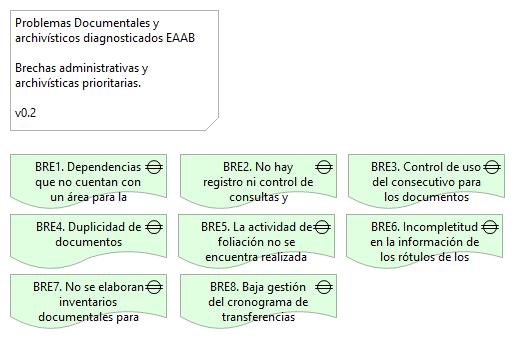
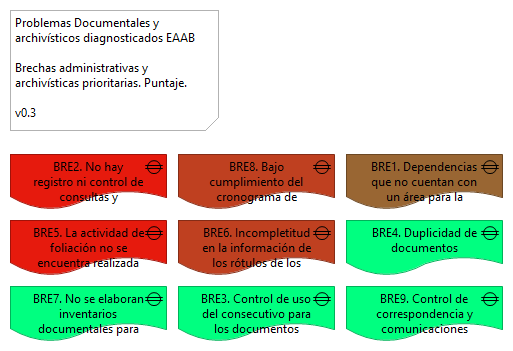
Brechas Archivísticas. Puntaje. Reporte

diff --git a/id-c126e9492ded4e86a2e8033d4e5892b0/elements/model.html b/id-c126e9492ded4e86a2e8033d4e5892b0/elements/model.html
@@ -1632,20 +1632,40 @@ ea3d92c Difusi&#243;n. FUNC501. Visualizaci&#243;n de los documentos buscados
 										dataElements.push({id:"id-052bf0cf3e404091949b05cc9db519fa", type:"WorkPackage", name:decodeURL("Proyecto+Arq.+%231"), documentation:decodeURL("metadatos%2C+archivo+nacional%2C+normatividad%2C+indicadores+de+adopci%C3%B3n%0D%0A")});
 									dataFoldersContent.push({folderid:"id-9fc52a75544243ea9550ecc15685d10c", contentid:"id-546681b0f1fe42da809704cb1fa47623", contenttype:"Gap"});
 										dataElements.push({id:"id-546681b0f1fe42da809704cb1fa47623", type:"Gap", name:decodeURL("BRE1.+Dependencias+que+no+cuentan+con+un+%C3%A1rea+para+la+consulta+de+documentos+f%C3%ADsicos"), documentation:decodeURL("1421001+-+DIRECCI%C3%93N+MEJORAMIENTO+CALIDAD+DE+VIDA%0D%0A1510001+-+GERENCIA+JUR%C3%8DDICA%0D%0A1530001+-+OFICINA+ASESORA+DE+REPRESENTACI%C3%93N+JUDICIAL+Y+ACTUACI%C3%93N+ADMINISTRATIVA%0D%0A2510001+-+GERENCIA+CORPORATIVA+SISTEMA+MAESTRO%0D%0A2532501+-+DIVISI%C3%93N+SISTEMA+DE+ABASTECIMIENTO+TIBITOC%0D%0A2620001+-+DIRECCI%C3%93N+INGENIER%C3%8DA+ESPECIALIZADA%0D%0A2641001+-+DIRECCI%C3%93N+SERVICIOS+T%C3%89CNICOS%0D%0A3010001+-+GERENCIA+CORPORATIVA+SERVICIO+AL+CLIENTE%0D%0A")});
+													dataProperties.push({conceptid:"id-546681b0f1fe42da809704cb1fa47623", propkey:decodeURL("Impacto"), propvalue:decodeURL("40")});
+
 									dataFoldersContent.push({folderid:"id-9fc52a75544243ea9550ecc15685d10c", contentid:"id-1099c94738bb4307be9d7ed2af5514b1", contenttype:"Gap"});
-										dataElements.push({id:"id-1099c94738bb4307be9d7ed2af5514b1", type:"Gap", name:decodeURL("BRE2.+No+hay+registro+ni+control+de+consultas+y+prestamos"), documentation:decodeURL("%28de+exploraci%C3%B3n+realizada%29+El+40%25+de+las+dependencias+encuestadas+no+ha+implementado+ning%C3%BAn+control+sobre+el+pr%C3%A9stamo+de+expedientes.+Solamente+una+de+las+23+dependencias+analizadas+indic%C3%B3+que+conoc%C3%ADa+la+tabla+de+control+de+acceso.%0D%0A%0D%0AS%C3%B3lo+5+de+las+23+dependencias+tienen+servicio+de+pr%C3%A9stamo+a+usuarios+externos%2C+lo+cual%2C+exige+mayor+%C3%A9nfasis+en+la+implementaci%C3%B3n+de+los+controles+de+pr%C3%A9stamo%2C+como+el+conocimiento+de+la+tabla+de+control+de+acceso+y+las+medidas+de+seguridad+sobre+la+informaci%C3%B3n+que+va+a+ser+objeto+de+consulta.%0D%0A%0D%0APrima+la+actividad+de+pr%C3%A9stamo+de+expedientes+y+el+env%C3%ADo+de+la+informaci%C3%B3n+objeto+de+consulta+por+correo+en+muchos+casos+por+el+aplicativo+CORI.%0D%0A%0D%0A2532501+-+DIVISI%C3%93N+SISTEMA+DE+ABASTECIMIENTO+TIBITOC%0D%0A2610001+-+GERENCIA+TECNOLOG%C3%8DA%0D%0A2636001+-+DIVISI%C3%93N+T%C3%81CTICA+DE+MANTENIMIENTO%0D%0A")});
+										dataElements.push({id:"id-1099c94738bb4307be9d7ed2af5514b1", type:"Gap", name:decodeURL("BRE2.+No+hay+registro+ni+control+de+consultas+y+prestamos"), documentation:decodeURL("El+proceso+de+consulta+y+la+forma+como+se+lleva+este+en+las+dependencias+punto+es+d%C3%A9bil.+Si+bien+existen+diferentes+maneras+de+gestionar+las+consultas+y+que+pese+a+existir+el+lineamiento+escrito+de+consulta+y+pr%C3%A9stamos+de+documentos%2C+le+entidad+adolece+de+la+apropiaci%C3%B3n+del+mismo+y+el+cumplimiento+de+las+pautas+establecidas+para+administrar+los+pr%C3%A9stamos+de+documentos+al+interior+de+la+EAAB.%0D%0A%0D%0A%28de+exploraci%C3%B3n+realizada%29+El+40%25+de+las+dependencias+encuestadas+no+ha+implementado+ning%C3%BAn+control+sobre+el+pr%C3%A9stamo+de+expedientes.+Solamente+una+de+las+23+dependencias+analizadas+indic%C3%B3+que+conoc%C3%ADa+la+tabla+de+control+de+acceso.%0D%0A%0D%0AS%C3%B3lo+5+de+las+23+dependencias+tienen+servicio+de+pr%C3%A9stamo+a+usuarios+externos%2C+lo+cual%2C+exige+mayor+%C3%A9nfasis+en+la+implementaci%C3%B3n+de+los+controles+de+pr%C3%A9stamo%2C+como+el+conocimiento+de+la+tabla+de+control+de+acceso+y+las+medidas+de+seguridad+sobre+la+informaci%C3%B3n+que+va+a+ser+objeto+de+consulta.%0D%0A%0D%0APrima+la+actividad+de+pr%C3%A9stamo+de+expedientes+y+el+env%C3%ADo+de+la+informaci%C3%B3n+objeto+de+consulta+por+correo+en+muchos+casos+por+el+aplicativo+CORI.%0D%0A%0D%0A2532501+-+DIVISI%C3%93N+SISTEMA+DE+ABASTECIMIENTO+TIBITOC%0D%0A2610001+-+GERENCIA+TECNOLOG%C3%8DA%0D%0A2636001+-+DIVISI%C3%93N+T%C3%81CTICA+DE+MANTENIMIENTO%0D%0A")});
+													dataProperties.push({conceptid:"id-1099c94738bb4307be9d7ed2af5514b1", propkey:decodeURL("Impacto"), propvalue:decodeURL("10")});
+
 									dataFoldersContent.push({folderid:"id-9fc52a75544243ea9550ecc15685d10c", contentid:"id-56571d7c3ed441d9b22a4870c4a1f9ef", contenttype:"Gap"});
 										dataElements.push({id:"id-56571d7c3ed441d9b22a4870c4a1f9ef", type:"Gap", name:decodeURL("BRE3.+Control+de+uso+del+consecutivo+para+los+documentos+internos+y+externos"), documentation:decodeURL("En+la+gesti%C3%B3n+documental+de+EAAB+intervienen+diferentes+aplicativos%2C+no+es+claro+que+las+comunicaciones+administrativas+tenga+un+consecutivo+%C3%BAnico+e+irrepetible+que+permita+hacer+seguimiento+a+su+trazabilidad+durante+el+proceso+de+distribuci%C3%B3n+desde+el+remitente+hasta+el+destino+final.+%0D%0A%0D%0A1150001+-+DIRECCI%C3%93N+SEGURIDAD+%0D%0A1421001+-+DIRECCI%C3%93N+MEJORAMIENTO+CALIDAD+DE+VIDA%0D%0A1510001+-+GERENCIA+JUR%C3%8DDICA%0D%0A1530001+-+OFICINA+ASESORA+DE+REPRESENTACI%C3%93N+JUDICIAL+Y+ACTUACI%C3%93N+ADMINISTRATIVA%0D%0A2532501+-+DIVISI%C3%93N+SISTEMA+DE+ABASTECIMIENTO+TIBITOC%0D%0A2610001+-+GERENCIA+TECNOLOG%C3%8DA%0D%0A")});
+													dataProperties.push({conceptid:"id-56571d7c3ed441d9b22a4870c4a1f9ef", propkey:decodeURL("Impacto"), propvalue:decodeURL("100")});
+
 									dataFoldersContent.push({folderid:"id-9fc52a75544243ea9550ecc15685d10c", contentid:"id-ceff681b2d1048d38735c63b17ac1b32", contenttype:"Gap"});
 										dataElements.push({id:"id-ceff681b2d1048d38735c63b17ac1b32", type:"Gap", name:decodeURL("BRE4.+Duplicidad+de+documentos"), documentation:decodeURL("1150001+-+DIRECCI%C3%93N+SEGURIDAD%0D%0A1190001+-+DIRECCI%C3%93N+DE+CONTRATACI%C3%93N+Y+COMPRAS%0D%0A")});
+													dataProperties.push({conceptid:"id-ceff681b2d1048d38735c63b17ac1b32", propkey:decodeURL("Impacto"), propvalue:decodeURL("100")});
+
 									dataFoldersContent.push({folderid:"id-9fc52a75544243ea9550ecc15685d10c", contentid:"id-34843064df6947c9b0289cee85725a53", contenttype:"Gap"});
-										dataElements.push({id:"id-34843064df6947c9b0289cee85725a53", type:"Gap", name:decodeURL("BRE5.+La+actividad+de+foliaci%C3%B3n+no+se+encuentra+realizada+en+su+totalidad"), documentation:decodeURL("1190001-+DIRECCI%C3%93N+DE+CONTRATACI%C3%93N+Y+COMPRAS%0D%0A1210001+-+GERENCIA+CORPORATIVA+PLANEAMIENTO+Y+CONTROL%0D%0A1240001-+DIRECCI%C3%93N+PLANEACI%C3%93N++Y+CONTROL+RENTABILIDAD%2C+GASTOS+Y+COSTOS%0D%0A1350001-+DIRECCI%C3%93N+TESORER%C3%8DA%0D%0A1421001+-+DIRECCI%C3%93N+MEJORAMIENTO+CALIDAD+DE+VIDA%0D%0A1510001+-+GERENCIA+JUR%C3%8DDICA%0D%0A1520001+-+OFICINA+ASESORA+LEGAL%0D%0A1530001+-+OFICINA+ASESORA+DE+REPRESENTACI%C3%93N+JUDICIAL+Y+ACTUACI%C3%93N+ADMINISTRATIVA%0D%0A2510001+-+GERENCIA+CORPORATIVA+SISTEMA+MAESTRO%0D%0A2532501+-+DIVISI%C3%93N+SISTEMA+DE+ABASTECIMIENTO+TIBITOC%0D%0A2533001+-+DIVISI%C3%93N+SISTEMA+SUR+DE+ABASTECIMIENTO%0D%0A2547001+-+DIVISI%C3%93N+OPERACI%C3%93N+Y+MANTENIMIENTO+DRM%0D%0A2610001+-+GERENCIA+TECNOLOG%C3%8DA%0D%0A2620001+-+DIRECCI%C3%93N+INGENIER%C3%8DA+ESPECIALIZADA%0D%0A2636001+-+DIVISI%C3%93N+T%C3%81CTICA+DE+MANTENIMIENTO%0D%0A2681001+-+DIRECCI%C3%93N+SISTEMAS+DE+INFORMACI%C3%93N+EMPRESARIAL%0D%0A2641001+-+DIRECCI%C3%93N+SERVICIOS+T%C3%89CNICOS%0D%0A3010001+-+GERENCIA+CORPORATIVA+SERVICIO+AL+CLIENTE%0D%0A")});
+										dataElements.push({id:"id-34843064df6947c9b0289cee85725a53", type:"Gap", name:decodeURL("BRE5.+La+actividad+de+foliaci%C3%B3n+no+se+encuentra+realizada+en+su+totalidad"), documentation:decodeURL("Persisten+fallas+en+el+inventario+que+refleja+un+63%25+del+proceso+indicado+en+las+unidades+que+fueron+objeto+de+exploraci%C3%B3n+muestral.+Es+objeto+de+alarma+que+la+foliaci%C3%B3n+refleje+de+manera+general+una+gesti%C3%B3n+efectiva+del+43%25%2C+por+lo+que+se+concluye+que+la+organizaci%C3%B3n+de+unidades+documentales+de+la+EAAB+en+estas+dependencias+analizadas+no+es+completa+y+precisamente+otro+indicador+desarrollado+y+obtenido+por+la+consultor%C3%ADa+nos+puede+mostrar+c%C3%B3mo+fue+ese+comportamiento+en+cada+una+de+las+dependencias.%0D%0A%0D%0A1190001-+DIRECCI%C3%93N+DE+CONTRATACI%C3%93N+Y+COMPRAS%0D%0A1210001+-+GERENCIA+CORPORATIVA+PLANEAMIENTO+Y+CONTROL%0D%0A1240001-+DIRECCI%C3%93N+PLANEACI%C3%93N++Y+CONTROL+RENTABILIDAD%2C+GASTOS+Y+COSTOS%0D%0A1350001-+DIRECCI%C3%93N+TESORER%C3%8DA%0D%0A1421001+-+DIRECCI%C3%93N+MEJORAMIENTO+CALIDAD+DE+VIDA%0D%0A1510001+-+GERENCIA+JUR%C3%8DDICA%0D%0A1520001+-+OFICINA+ASESORA+LEGAL%0D%0A1530001+-+OFICINA+ASESORA+DE+REPRESENTACI%C3%93N+JUDICIAL+Y+ACTUACI%C3%93N+ADMINISTRATIVA%0D%0A2510001+-+GERENCIA+CORPORATIVA+SISTEMA+MAESTRO%0D%0A2532501+-+DIVISI%C3%93N+SISTEMA+DE+ABASTECIMIENTO+TIBITOC%0D%0A2533001+-+DIVISI%C3%93N+SISTEMA+SUR+DE+ABASTECIMIENTO%0D%0A2547001+-+DIVISI%C3%93N+OPERACI%C3%93N+Y+MANTENIMIENTO+DRM%0D%0A2610001+-+GERENCIA+TECNOLOG%C3%8DA%0D%0A2620001+-+DIRECCI%C3%93N+INGENIER%C3%8DA+ESPECIALIZADA%0D%0A2636001+-+DIVISI%C3%93N+T%C3%81CTICA+DE+MANTENIMIENTO%0D%0A2681001+-+DIRECCI%C3%93N+SISTEMAS+DE+INFORMACI%C3%93N+EMPRESARIAL%0D%0A2641001+-+DIRECCI%C3%93N+SERVICIOS+T%C3%89CNICOS%0D%0A3010001+-+GERENCIA+CORPORATIVA+SERVICIO+AL+CLIENTE%0D%0A")});
+													dataProperties.push({conceptid:"id-34843064df6947c9b0289cee85725a53", propkey:decodeURL("Impacto"), propvalue:decodeURL("10")});
+
 									dataFoldersContent.push({folderid:"id-9fc52a75544243ea9550ecc15685d10c", contentid:"id-5a67580cb32a47f394414ce8e73e59e2", contenttype:"Gap"});
-										dataElements.push({id:"id-5a67580cb32a47f394414ce8e73e59e2", type:"Gap", name:decodeURL("BRE6.+Incompletitud+en+la+informaci%C3%B3n+de+los+r%C3%B3tulos+de+los+expedientes"), documentation:decodeURL("1190001+-+DIRECCI%C3%93N+DE+CONTRATACI%C3%93N+Y+COMPRAS%0D%0A1240001+-+DIRECCI%C3%93N+PLANEACI%C3%93N++Y+CONTROL+RENTABILIDAD%2C+GASTOS+Y+COSTOS%0D%0A1421001+-+DIRECCI%C3%93N+MEJORAMIENTO+CALIDAD+DE+VIDA%0D%0A1510001+-+GERENCIA+JUR%C3%8DDICA%0D%0A1520001+-+OFICINA+ASESORA+LEGAL%0D%0A1530001+-+OFICINA+ASESORA+DE+REPRESENTACI%C3%93N+JUDICIAL+Y+ACTUACI%C3%93N+ADMINISTRATIVA%0D%0A2510001+-+GERENCIA+CORPORATIVA+SISTEMA+MAESTRO%0D%0A2532501+-+DIVISI%C3%93N+SISTEMA+DE+ABASTECIMIENTO+TIBITOC%0D%0A2533001+-+DIVISI%C3%93N+SISTEMA+SUR+DE+ABASTECIMIENTO%0D%0A2547001+-+DIVISI%C3%93N+OPERACI%C3%93N+Y+MANTENIMIENTO+DRM%0D%0A2610001+-+GERENCIA+TECNOLOG%C3%8DA%0D%0A2620001+-+DIRECCI%C3%93N+INGENIER%C3%8DA+ESPECIALIZADA%0D%0A2636001+-+DIVISI%C3%93N+T%C3%81CTICA+DE+MANTENIMIENTO%0D%0A2681001+-+DIRECCI%C3%93N+SISTEMAS+DE+INFORMACI%C3%93N+EMPRESARIAL%0D%0A2641001+-+DIRECCI%C3%93N+SERVICIOS+T%C3%89CNICOS%0D%0A3010001+-+GERENCIA+CORPORATIVA+SERVICIO+AL+CLIENTE%0D%0A")});
+										dataElements.push({id:"id-5a67580cb32a47f394414ce8e73e59e2", type:"Gap", name:decodeURL("BRE6.+Incompletitud+en+la+informaci%C3%B3n+de+los+r%C3%B3tulos+de+los+expedientes"), documentation:decodeURL("El+proceso+de+organizaci%C3%B3n+de+documentos+en+unidades+simples+y+complejas+no+se+desarrolla+de+manera+integral%3A+los+procesos+que+componen+esta+actividad+no+se+llevan+a+cabalidad+y+siempre+hace+falta+completitud+de+los+mismos.%0D%0A%0D%0AEl+proceso+m%C3%A1s+frecuente+es+el+de+ordenaci%C3%B3n+seguido+por+la+rotulaci%C3%B3n%2C+infortunadamente+con+deficiencias+del+menos+del+50%25+en+la+descripci%C3%B3n+de+dicho+r%C3%B3tulo.+%0D%0A%0D%0A1190001+-+DIRECCI%C3%93N+DE+CONTRATACI%C3%93N+Y+COMPRAS%0D%0A1240001+-+DIRECCI%C3%93N+PLANEACI%C3%93N++Y+CONTROL+RENTABILIDAD%2C+GASTOS+Y+COSTOS%0D%0A1421001+-+DIRECCI%C3%93N+MEJORAMIENTO+CALIDAD+DE+VIDA%0D%0A1510001+-+GERENCIA+JUR%C3%8DDICA%0D%0A1520001+-+OFICINA+ASESORA+LEGAL%0D%0A1530001+-+OFICINA+ASESORA+DE+REPRESENTACI%C3%93N+JUDICIAL+Y+ACTUACI%C3%93N+ADMINISTRATIVA%0D%0A2510001+-+GERENCIA+CORPORATIVA+SISTEMA+MAESTRO%0D%0A2532501+-+DIVISI%C3%93N+SISTEMA+DE+ABASTECIMIENTO+TIBITOC%0D%0A2533001+-+DIVISI%C3%93N+SISTEMA+SUR+DE+ABASTECIMIENTO%0D%0A2547001+-+DIVISI%C3%93N+OPERACI%C3%93N+Y+MANTENIMIENTO+DRM%0D%0A2610001+-+GERENCIA+TECNOLOG%C3%8DA%0D%0A2620001+-+DIRECCI%C3%93N+INGENIER%C3%8DA+ESPECIALIZADA%0D%0A2636001+-+DIVISI%C3%93N+T%C3%81CTICA+DE+MANTENIMIENTO%0D%0A2681001+-+DIRECCI%C3%93N+SISTEMAS+DE+INFORMACI%C3%93N+EMPRESARIAL%0D%0A2641001+-+DIRECCI%C3%93N+SERVICIOS+T%C3%89CNICOS%0D%0A3010001+-+GERENCIA+CORPORATIVA+SERVICIO+AL+CLIENTE%0D%0A")});
+													dataProperties.push({conceptid:"id-5a67580cb32a47f394414ce8e73e59e2", propkey:decodeURL("Impacto"), propvalue:decodeURL("25")});
+
 									dataFoldersContent.push({folderid:"id-9fc52a75544243ea9550ecc15685d10c", contentid:"id-7f0e78c58477426986caf6c2c646c545", contenttype:"Gap"});
 										dataElements.push({id:"id-7f0e78c58477426986caf6c2c646c545", type:"Gap", name:decodeURL("BRE7.+No+se+elaboran+inventarios+documentales+para+la+totalidad+de+los+expedientes"), documentation:decodeURL("1530001+-+OFICINA+ASESORA+DE+REPRESENTACI%C3%93N+JUDICIAL+Y+ACTUACI%C3%93N+ADMINISTRATIVA%0D%0A2510001+-+GERENCIA+CORPORATIVA+SISTEMA+MAESTRO%0D%0A")});
+													dataProperties.push({conceptid:"id-7f0e78c58477426986caf6c2c646c545", propkey:decodeURL("Impacto"), propvalue:decodeURL("100")});
+
 									dataFoldersContent.push({folderid:"id-9fc52a75544243ea9550ecc15685d10c", contentid:"id-a8013bc1e9d34019bae3b43ab7aac2fd", contenttype:"Gap"});
-										dataElements.push({id:"id-a8013bc1e9d34019bae3b43ab7aac2fd", type:"Gap", name:decodeURL("BRE8.+Baja+gesti%C3%B3n+del+cronograma+de+transferencias+documental"), documentation:decodeURL("%28Prodygitec%29+Menos+del+50%25+de+los+encuestados+en+EAAB+realiza+las+transferencias+seg%C3%BAn+lo+se%C3%B1alaban+las+tablas+de+retenci%C3%B3n+documental.+Es+importante+es+el+cronograma+de+transferencias+implementado*+para+hacer+posible+el+cumplimiento+del+ciclo+de+vida+de+los+documentos+y+racionalizar+no+solamente+el+espacio+sino+tambi%C3%A9n+los+recursos+f%C3%ADsicos+destinados+a+almacenar+archivos+en+la+fase+de+gesti%C3%B3n%2C+con+lo+cual+se+garantizan+la+seguridad+de+aquellos+documentos+cuando+son+transferidos+hacia+el+archivo+central.%0D%0A%0D%0ASolamente+9+de+las+23+dependencias+al+ser+encuestadas+manifestaron+que+se+cumplen+adecuadamente+los+cronogramas+o+planes+de+3+documentales+que+se+han+establecido+al+interior+de+la+empresa.%0D%0A%0D%0A%0D%0A%28*%29+En+el+numeral+6+del+art%C3%ADculo+cuarto+el+acuerdo+042+de+2002+emitido+por+el+Archivo+General+de+la+Naci%C3%B3n%3A+garantizar+que+se+pueda+efectuar+adecuadamente+unas+transferencias+documentales+ya+sea+primarias+o+secundarias+en+cumplimiento+y+aplicaci%C3%B3n+de+lo+se%C3%B1alado+en+la+tabla+de+retenci%C3%B3n+documental.%0D%0A")});
+										dataElements.push({id:"id-a8013bc1e9d34019bae3b43ab7aac2fd", type:"Gap", name:decodeURL("BRE8.+Bajo+cumplimiento+del+cronograma+de+transferencias+documental"), documentation:decodeURL("Es+innegable+la+importancia+de+que+las+transferencias+se+desarrollen+conforme+a+lo+se%C3%B1alado+en+las+tablas+de+retenci%C3%B3n+documental+y+fluya+la+log%C3%ADstica+necesaria+para+que+los+archivos+cambian+de+fase+descongestionen+las+dependencias+y+archivos+de+gesti%C3%B3n+y+se+pueden+aplicar+procesos+de+disposici%C3%B3n+final+en+el+archivo+central+que+permitan+racionalizar+los+recursos+para+la+administraci%C3%B3n+de+documentos.%0D%0A%0D%0A%28Prodygitec%29+El+cumplimiento+del+plan+de+transferencias+documentales+de+la+EAAB+tiene+debilidades+asociadas+a+la+falta+de+un+plan+completo+e+%C3%ADntegro+de+seguimiento+y+control+de+esta+actividad+en+las+dependencias.%0D%0A%0D%0A%28Prodygitec%29+Menos+del+50%25+de+los+encuestados+en+EAAB+realiza+las+transferencias+seg%C3%BAn+lo+se%C3%B1alaban+las+tablas+de+retenci%C3%B3n+documental.+Es+importante+es+el+cronograma+de+transferencias+implementado*+para+hacer+posible+el+cumplimiento+del+ciclo+de+vida+de+los+documentos+y+racionalizar+no+solamente+el+espacio+sino+tambi%C3%A9n+los+recursos+f%C3%ADsicos+destinados+a+almacenar+archivos+en+la+fase+de+gesti%C3%B3n%2C+con+lo+cual+se+garantizan+la+seguridad+de+aquellos+documentos+cuando+son+transferidos+hacia+el+archivo+central.%0D%0A%0D%0ASolamente+9+de+las+23+dependencias+al+ser+encuestadas+manifestaron+que+se+cumplen+adecuadamente+los+cronogramas+o+planes+de+3+documentales+que+se+han+establecido+al+interior+de+la+empresa.%0D%0A%0D%0A%0D%0A%28*%29+En+el+numeral+6+del+art%C3%ADculo+cuarto+el+acuerdo+042+de+2002+emitido+por+el+Archivo+General+de+la+Naci%C3%B3n%3A+garantizar+que+se+pueda+efectuar+adecuadamente+unas+transferencias+documentales+ya+sea+primarias+o+secundarias+en+cumplimiento+y+aplicaci%C3%B3n+de+lo+se%C3%B1alado+en+la+tabla+de+retenci%C3%B3n+documental.%0D%0A")});
+													dataProperties.push({conceptid:"id-a8013bc1e9d34019bae3b43ab7aac2fd", propkey:decodeURL("Impacto"), propvalue:decodeURL("25")});
+
+									dataFoldersContent.push({folderid:"id-9fc52a75544243ea9550ecc15685d10c", contentid:"id-67d4b942f64446e3ad359f7e82755a99", contenttype:"Gap"});
+										dataElements.push({id:"id-67d4b942f64446e3ad359f7e82755a99", type:"Gap", name:decodeURL("BRE9.+Control+de+correspondencia+y+comunicaciones+interna+y+externa"), documentation:decodeURL("En+la+aplicaci%C3%B3n+de+los+controles+de+la+correspondencia+tenemos+que+el+5%25+emplea+planillas%2C+el+32%25+una+herramienta+tecnol%C3%B3gica+de+las+mencionadas+anteriormente%2C+el+45%25+hace+uso+de+bases+de+datos+en+excel+y+el+porcentaje+restante+de+dependencias+no+emplea+ning%C3%BAn+control.%0D%0A%0D%0ADe+aqu%C3%AD+se+desprende+una+gesti%C3%B3n+inconsistente+de+los+controles%2C+que+sumada+a+una+administraci%C3%B3n+insular+del+proceso+de+correspondencia%2C+genera+riesgo+de+p%C3%A9rdida+de+informaci%C3%B3n%2C+o+confusi%C3%B3n+o+que+no+lleguen+a+ser+parte+de+los+expedientes+a+los+cuales+pertenecen.%0D%0A%0D%0APese+a+existir+reglamentaci%C3%B3n+interna+sobre+el+manejo+de+la+correspondencia+como+tambi%C3%A9n+los+procedimientos+que+detalla+el+flujo+documental+de+las+comunicaciones+externas+e+internas%2C+hay+dependencias+que+no+est%C3%A1n+ligadas+al+mismo+entorno+y+no+emplean+las+mismas+aplicaciones.+Hace+falto%2C+por+tanto%2C+que+exista+una+articulaci%C3%B3n+desde+lo+tecnol%C3%B3gico+y+procedimental+para+garantizar+que+todas+las+comunicaciones+internas+y+externas+est%C3%A1n+gestionadas+de+forma+unificada+y+centralizada.%0D%0A")});
+													dataProperties.push({conceptid:"id-67d4b942f64446e3ad359f7e82755a99", propkey:decodeURL("Impacto"), propvalue:decodeURL("100")});
+
 
 								dataFoldersContent.push({folderid:"id-c126e9492ded4e86a2e8033d4e5892b0", contentid:"id-31ce532c1f8e4cedb0efe15119c5e12f", contenttype:"Folder"});
 								dataFolders.push({id:"id-31ce532c1f8e4cedb0efe15119c5e12f", type:"Folder", name:decodeURL("Other"), documentation:decodeURL("")});
@@ -4236,7 +4256,7 @@ ea3d92c Difusi&#243;n. FUNC501. Visualizaci&#243;n de los documentos buscados
 													dataViewsContent.push({viewid:"id-c72805b148b8421b92d428376446257d", contentid:"90205c56-8139-4d13-9f83-a785b1f24098", contenttype:"Outcome"});
 
 										dataFoldersContent.push({folderid:"id-47220fdb39884c01b3a8e084cc8f8eaa", contentid:"id-c5da1964a87f476aa941ac647412b212", contenttype:"ArchimateDiagramModel"});
-											dataViews.push({id:"id-c5da1964a87f476aa941ac647412b212", type:"ArchimateDiagramModel", name:decodeURL("Brechas+Archiv%C3%ADsticas"), documentation:decodeURL("El+Diagn%C3%B3stivo+archiv%C3%ADsticos*+realizado+a+la+EAAB+identific%C3%B3+las+debilidades+en+las+capacidades+documentales.+Estas+debilidades%2C+que+se+expresan+en+brechas+archiv%C3%ADsticas%2C+son+problemas+administrativos%2C+documentales+y+archiv%C3%ADsticos+que+deben+ser+relacionados+con+el+dise%C3%B1o+del+SGDEA+de+EAAB.%0D%0A%0D%0ALas+brechas+archiv%C3%ADsticas+dan+a+conocer+la+situaci%C3%B3n+actual+de+los+archivos+de+la+EAAB-ESP+y+dan+informaci%C3%B3n+%C3%BAtil+para+tomar+decisiones+de+dise%C3%B1o+de+la+gesti%C3%B3n+del+archivo+del+futuro+Sistema+de+Gesti%C3%B3n+Documental+Electr%C3%B3nica+y+Archivo+SGDEA.%0D%0A%0D%0A*+INFORME+GLOBAL+COMPONENTE+ADMINISTRATIVO%2C+ARCHIV%C3%8DSTICO+Y+DE+CONSERVACI%C3%93N")});
+											dataViews.push({id:"id-c5da1964a87f476aa941ac647412b212", type:"ArchimateDiagramModel", name:decodeURL("Brechas+Archiv%C3%ADsticas"), documentation:decodeURL("El+Diagn%C3%B3stivo+archiv%C3%ADsticos*+realizado+a+la+EAAB+identific%C3%B3+las+debilidades+en+las+capacidades+documentales+de+la+entidad.+Estas+debilidades%2C+que+se+expresan+en+brechas+archiv%C3%ADsticas%2C+traen+problemas+administrativos%2C+documentales+y+archiv%C3%ADsticos+que+deben+ser+relacionados+con+el+dise%C3%B1o+del+SGDEA+de+EAAB.%0D%0A%0D%0ALas+brechas+archiv%C3%ADsticas+dan+a+conocer+la+situaci%C3%B3n+actual+de+los+archivos+de+la+EAAB-ESP+y+dan+informaci%C3%B3n+%C3%BAtil+para+tomar+decisiones+de+dise%C3%B1o+de+la+gesti%C3%B3n+del+archivo+del+futuro+Sistema+de+Gesti%C3%B3n+Documental+Electr%C3%B3nica+y+Archivo+SGDEA.%0D%0A%0D%0AEl+resultado+de+las+brechas+archiv%C3%ADsticas+de+la+EAAB+hace+necesario+el+seguimiento+de+los+procesos+de+organizaci%C3%B3n+de+expedientes+que+est%C3%A9n+desarrollado+de+acuerdo+con+los+criterios+archiv%C3%ADsticos%2C+y+que%3A%0D%0A*+posean+una+hoja+de+control+en+la+cual+se+pueda+relacionar+los+medios+an%C3%A1logos%0D%0A*+que+tengan+los+instrumentos+descriptivos+necesarios+para+asegurar+su+trazabilidad%0D%0A*+que+garantice+el+v%C3%ADnculo+archiv%C3%ADstico+con+el+expediente+al+cual+pertenece%0D%0A%0D%0A%28*%29+INFORME+GLOBAL+COMPONENTE+ADMINISTRATIVO%2C+ARCHIV%C3%8DSTICO+Y+DE+CONSERVACI%C3%93N")});
 													dataViewsContent.push({viewid:"id-c5da1964a87f476aa941ac647412b212", contentid:"id-546681b0f1fe42da809704cb1fa47623", contenttype:"Gap"});
 													dataViewsContent.push({viewid:"id-c5da1964a87f476aa941ac647412b212", contentid:"id-1099c94738bb4307be9d7ed2af5514b1", contenttype:"Gap"});
 													dataViewsContent.push({viewid:"id-c5da1964a87f476aa941ac647412b212", contentid:"id-56571d7c3ed441d9b22a4870c4a1f9ef", contenttype:"Gap"});
@@ -4245,6 +4265,7 @@ ea3d92c Difusi&#243;n. FUNC501. Visualizaci&#243;n de los documentos buscados
 													dataViewsContent.push({viewid:"id-c5da1964a87f476aa941ac647412b212", contentid:"id-5a67580cb32a47f394414ce8e73e59e2", contenttype:"Gap"});
 													dataViewsContent.push({viewid:"id-c5da1964a87f476aa941ac647412b212", contentid:"id-7f0e78c58477426986caf6c2c646c545", contenttype:"Gap"});
 													dataViewsContent.push({viewid:"id-c5da1964a87f476aa941ac647412b212", contentid:"id-a8013bc1e9d34019bae3b43ab7aac2fd", contenttype:"Gap"});
+													dataViewsContent.push({viewid:"id-c5da1964a87f476aa941ac647412b212", contentid:"id-67d4b942f64446e3ad359f7e82755a99", contenttype:"Gap"});
 
 
 									dataFoldersContent.push({folderid:"id-3b7589a83e1b4855b5f626271979d7d0", contentid:"id-4f7bc043050642e299a839d3e3637311", contenttype:"Folder"});

diff --git a/id-c126e9492ded4e86a2e8033d4e5892b0/views/id-c5da1964a87f476aa941ac647412b212.html b/id-c126e9492ded4e86a2e8033d4e5892b0/views/id-c5da1964a87f476aa941ac647412b212.html
@@ -34,15 +34,16 @@
 		    <!-- If this is a digram model (has children and no bounds) show the image -->
 			   <img class="diagram" src="../images/id-c5da1964a87f476aa941ac647412b212.png" alt="Brechas Archivísticas" usemap="#id-c5da1964a87f476aa941ac647412b212map"/>
 			   <map name="id-c5da1964a87f476aa941ac647412b212map">
-				  		<area shape="rect" coords="180,274,337,329" href="../elements/id-a8013bc1e9d34019bae3b43ab7aac2fd.html"  target="element">
+				  		<area shape="rect" coords="346,286,503,341" href="../elements/id-67d4b942f64446e3ad359f7e82755a99.html"  target="element">
+				  		<area shape="rect" coords="178,154,335,209" href="../elements/id-a8013bc1e9d34019bae3b43ab7aac2fd.html"  target="element">
 				          <area shape="rect" coords="10,10,219,131" href="../objects/id-fe115875c68e405a8da294d0794abb1c.html" target="element" >
-				  		<area shape="rect" coords="10,274,167,329" href="../elements/id-7f0e78c58477426986caf6c2c646c545.html"  target="element">
-				  		<area shape="rect" coords="346,214,503,269" href="../elements/id-5a67580cb32a47f394414ce8e73e59e2.html"  target="element">
-				  		<area shape="rect" coords="178,214,335,269" href="../elements/id-34843064df6947c9b0289cee85725a53.html"  target="element">
-				  		<area shape="rect" coords="10,214,167,269" href="../elements/id-ceff681b2d1048d38735c63b17ac1b32.html"  target="element">
-				  		<area shape="rect" coords="348,154,505,209" href="../elements/id-56571d7c3ed441d9b22a4870c4a1f9ef.html"  target="element">
-				  		<area shape="rect" coords="180,154,337,209" href="../elements/id-1099c94738bb4307be9d7ed2af5514b1.html"  target="element">
-				  		<area shape="rect" coords="10,154,167,209" href="../elements/id-546681b0f1fe42da809704cb1fa47623.html"  target="element">
+				  		<area shape="rect" coords="10,286,167,341" href="../elements/id-7f0e78c58477426986caf6c2c646c545.html"  target="element">
+				  		<area shape="rect" coords="178,220,335,275" href="../elements/id-5a67580cb32a47f394414ce8e73e59e2.html"  target="element">
+				  		<area shape="rect" coords="10,220,167,275" href="../elements/id-34843064df6947c9b0289cee85725a53.html"  target="element">
+				  		<area shape="rect" coords="346,220,503,275" href="../elements/id-ceff681b2d1048d38735c63b17ac1b32.html"  target="element">
+				  		<area shape="rect" coords="178,286,335,341" href="../elements/id-56571d7c3ed441d9b22a4870c4a1f9ef.html"  target="element">
+				  		<area shape="rect" coords="10,154,167,209" href="../elements/id-1099c94738bb4307be9d7ed2af5514b1.html"  target="element">
+				  		<area shape="rect" coords="346,154,503,209" href="../elements/id-546681b0f1fe42da809704cb1fa47623.html"  target="element">
 
 			   </map>
 
@@ -63,11 +64,16 @@
 				<!-- Tab panes -->
 				<div class="tab-content">
 					<div role="tabpanel" class="tab-pane active" id="documentation">
-						<div class="convertlinks documentation" style="white-space:pre-wrap">El Diagn&#243;stivo archiv&#237;sticos* realizado a la EAAB identific&#243; las debilidades en las capacidades documentales. Estas debilidades, que se expresan en brechas archiv&#237;sticas, son problemas administrativos, documentales y archiv&#237;sticos que deben ser relacionados con el dise&#241;o del SGDEA de EAAB.
+						<div class="convertlinks documentation" style="white-space:pre-wrap">El Diagn&#243;stivo archiv&#237;sticos* realizado a la EAAB identific&#243; las debilidades en las capacidades documentales de la entidad. Estas debilidades, que se expresan en brechas archiv&#237;sticas, traen problemas administrativos, documentales y archiv&#237;sticos que deben ser relacionados con el dise&#241;o del SGDEA de EAAB.
 
 Las brechas archiv&#237;sticas dan a conocer la situaci&#243;n actual de los archivos de la EAAB-ESP y dan informaci&#243;n &#250;til para tomar decisiones de dise&#241;o de la gesti&#243;n del archivo del futuro Sistema de Gesti&#243;n Documental Electr&#243;nica y Archivo SGDEA.
 
-* INFORME GLOBAL COMPONENTE ADMINISTRATIVO, ARCHIV&#205;STICO Y DE CONSERVACI&#211;N</div>
+El resultado de las brechas archiv&#237;sticas de la EAAB hace necesario el seguimiento de los procesos de organizaci&#243;n de expedientes que est&#233;n desarrollado de acuerdo con los criterios archiv&#237;sticos, y que:
+* posean una hoja de control en la cual se pueda relacionar los medios an&#225;logos
+* que tengan los instrumentos descriptivos necesarios para asegurar su trazabilidad
+* que garantice el v&#237;nculo archiv&#237;stico con el expediente al cual pertenece
+
+(*) INFORME GLOBAL COMPONENTE ADMINISTRATIVO, ARCHIV&#205;STICO Y DE CONSERVACI&#211;N</div>
 					</div>
 					<div role="tabpanel" class="tab-pane" id="properties">
 						<table class="table table-striped table-hover table-condensed">
@@ -131,8 +137,13 @@ Las brechas archiv&#237;sticas dan a conocer la situaci&#243;n actual de los arc
 									        </tr>
 
 											<tr>
-											    <td> <a href="../elements/id-a8013bc1e9d34019bae3b43ab7aac2fd.html" target="element"> BRE8. Baja gesti&#243;n del cronograma de transferencias documental </a> </td>
+											    <td> <a href="../elements/id-a8013bc1e9d34019bae3b43ab7aac2fd.html" target="element"> BRE8. Bajo cumplimiento del cronograma de transferencias documental </a> </td>
 											    <td> <a href="../elements/id-a8013bc1e9d34019bae3b43ab7aac2fd.html" target="element" class="i18n-elementtype-Gap"> </a> </td>
+											</tr>
+
+											<tr>
+											    <td> <a href="../elements/id-67d4b942f64446e3ad359f7e82755a99.html" target="element"> BRE9. Control de correspondencia y comunicaciones interna y externa </a> </td>
+											    <td> <a href="../elements/id-67d4b942f64446e3ad359f7e82755a99.html" target="element" class="i18n-elementtype-Gap"> </a> </td>
 											</tr>
 
 

diff --git a/id-c126e9492ded4e86a2e8033d4e5892b0/elements/id-67d4b942f64446e3ad359f7e82755a99.html b/id-c126e9492ded4e86a2e8033d4e5892b0/elements/id-67d4b942f64446e3ad359f7e82755a99.html
@@ -2,7 +2,7 @@
 <html class="frame" lang="en">
 <head>
 	<meta http-equiv="Content-Type" content="text/html;charset=utf-8">
-	<title>BRE2. No hay registro ni control de consultas y prestamos</title>
+	<title>BRE9. Control de correspondencia y comunicaciones interna y externa</title>
 
 	<!-- JQUERY (use 1.x branch to be compatible with IE 6/7/8) -->
 	<script type="text/javascript" src="../../lib/jquery/js/jquery-1.11.2.min.js"></script>
@@ -22,7 +22,7 @@
 
 		<div class="panel-heading root-panel-heading">
             <!-- Name -->
-               <b>BRE2. No hay registro ni control de consultas y prestamos</b>
+               <b>BRE9. Control de correspondencia y comunicaciones interna y externa</b>
 
             <!-- If a View with Viewpoint -->
 			   (<span class="i18n-elementtype-Gap"></span>)
@@ -46,17 +46,11 @@
 				<!-- Tab panes -->
 				<div class="tab-content">
 					<div role="tabpanel" class="tab-pane active" id="documentation">
-						<div class="convertlinks documentation" style="white-space:pre-wrap">El proceso de consulta y la forma como se lleva este en las dependencias punto es d&#233;bil. Si bien existen diferentes maneras de gestionar las consultas y que pese a existir el lineamiento escrito de consulta y pr&#233;stamos de documentos, le entidad adolece de la apropiaci&#243;n del mismo y el cumplimiento de las pautas establecidas para administrar los pr&#233;stamos de documentos al interior de la EAAB.
+						<div class="convertlinks documentation" style="white-space:pre-wrap">En la aplicaci&#243;n de los controles de la correspondencia tenemos que el 5% emplea planillas, el 32% una herramienta tecnol&#243;gica de las mencionadas anteriormente, el 45% hace uso de bases de datos en excel y el porcentaje restante de dependencias no emplea ning&#250;n control.
 
-(de exploraci&#243;n realizada) El 40% de las dependencias encuestadas no ha implementado ning&#250;n control sobre el pr&#233;stamo de expedientes. Solamente una de las 23 dependencias analizadas indic&#243; que conoc&#237;a la tabla de control de acceso.
+De aqu&#237; se desprende una gesti&#243;n inconsistente de los controles, que sumada a una administraci&#243;n insular del proceso de correspondencia, genera riesgo de p&#233;rdida de informaci&#243;n, o confusi&#243;n o que no lleguen a ser parte de los expedientes a los cuales pertenecen.
 
-S&#243;lo 5 de las 23 dependencias tienen servicio de pr&#233;stamo a usuarios externos, lo cual, exige mayor &#233;nfasis en la implementaci&#243;n de los controles de pr&#233;stamo, como el conocimiento de la tabla de control de acceso y las medidas de seguridad sobre la informaci&#243;n que va a ser objeto de consulta.
-
-Prima la actividad de pr&#233;stamo de expedientes y el env&#237;o de la informaci&#243;n objeto de consulta por correo en muchos casos por el aplicativo CORI.
-
-2532501 - DIVISI&#211;N SISTEMA DE ABASTECIMIENTO TIBITOC
-2610001 - GERENCIA TECNOLOG&#205;A
-2636001 - DIVISI&#211;N T&#193;CTICA DE MANTENIMIENTO
+Pese a existir reglamentaci&#243;n interna sobre el manejo de la correspondencia como tambi&#233;n los procedimientos que detalla el flujo documental de las comunicaciones externas e internas, hay dependencias que no est&#225;n ligadas al mismo entorno y no emplean las mismas aplicaciones. Hace falto, por tanto, que exista una articulaci&#243;n desde lo tecnol&#243;gico y procedimental para garantizar que todas las comunicaciones internas y externas est&#225;n gestionadas de forma unificada y centralizada.
 </div>
 					</div>
 					<div role="tabpanel" class="tab-pane" id="properties">
@@ -68,7 +62,7 @@ Prima la actividad de pr&#233;stamo de expedientes y el env&#237;o de la informa
 								</tr>
 							</thead>
 							<tbody>
-								<tr><td> Impacto </td><td class="convertlinks"> <xmp class="no-margin" style="white-space:pre-wrap">10</xmp> </td></tr>
+								<tr><td> Impacto </td><td class="convertlinks"> <xmp class="no-margin" style="white-space:pre-wrap">100</xmp> </td></tr>
 							</tbody>
 						</table>
 					</div>

diff --git a/id-c126e9492ded4e86a2e8033d4e5892b0/elements/id-a8013bc1e9d34019bae3b43ab7aac2fd.html b/id-c126e9492ded4e86a2e8033d4e5892b0/elements/id-a8013bc1e9d34019bae3b43ab7aac2fd.html
@@ -2,7 +2,7 @@
 <html class="frame" lang="en">
 <head>
 	<meta http-equiv="Content-Type" content="text/html;charset=utf-8">
-	<title>BRE8. Baja gestión del cronograma de transferencias documental</title>
+	<title>BRE8. Bajo cumplimiento del cronograma de transferencias documental</title>
 
 	<!-- JQUERY (use 1.x branch to be compatible with IE 6/7/8) -->
 	<script type="text/javascript" src="../../lib/jquery/js/jquery-1.11.2.min.js"></script>
@@ -22,7 +22,7 @@
 
 		<div class="panel-heading root-panel-heading">
             <!-- Name -->
-               <b>BRE8. Baja gesti&#243;n del cronograma de transferencias documental</b>
+               <b>BRE8. Bajo cumplimiento del cronograma de transferencias documental</b>
 
             <!-- If a View with Viewpoint -->
 			   (<span class="i18n-elementtype-Gap"></span>)
@@ -46,7 +46,11 @@
 				<!-- Tab panes -->
 				<div class="tab-content">
 					<div role="tabpanel" class="tab-pane active" id="documentation">
-						<div class="convertlinks documentation" style="white-space:pre-wrap">(Prodygitec) Menos del 50% de los encuestados en EAAB realiza las transferencias seg&#250;n lo se&#241;alaban las tablas de retenci&#243;n documental. Es importante es el cronograma de transferencias implementado* para hacer posible el cumplimiento del ciclo de vida de los documentos y racionalizar no solamente el espacio sino tambi&#233;n los recursos f&#237;sicos destinados a almacenar archivos en la fase de gesti&#243;n, con lo cual se garantizan la seguridad de aquellos documentos cuando son transferidos hacia el archivo central.
+						<div class="convertlinks documentation" style="white-space:pre-wrap">Es innegable la importancia de que las transferencias se desarrollen conforme a lo se&#241;alado en las tablas de retenci&#243;n documental y fluya la log&#237;stica necesaria para que los archivos cambian de fase descongestionen las dependencias y archivos de gesti&#243;n y se pueden aplicar procesos de disposici&#243;n final en el archivo central que permitan racionalizar los recursos para la administraci&#243;n de documentos.
+
+(Prodygitec) El cumplimiento del plan de transferencias documentales de la EAAB tiene debilidades asociadas a la falta de un plan completo e &#237;ntegro de seguimiento y control de esta actividad en las dependencias.
+
+(Prodygitec) Menos del 50% de los encuestados en EAAB realiza las transferencias seg&#250;n lo se&#241;alaban las tablas de retenci&#243;n documental. Es importante es el cronograma de transferencias implementado* para hacer posible el cumplimiento del ciclo de vida de los documentos y racionalizar no solamente el espacio sino tambi&#233;n los recursos f&#237;sicos destinados a almacenar archivos en la fase de gesti&#243;n, con lo cual se garantizan la seguridad de aquellos documentos cuando son transferidos hacia el archivo central.
 
 Solamente 9 de las 23 dependencias al ser encuestadas manifestaron que se cumplen adecuadamente los cronogramas o planes de 3 documentales que se han establecido al interior de la empresa.
 
@@ -63,6 +67,7 @@ Solamente 9 de las 23 dependencias al ser encuestadas manifestaron que se cumple
 								</tr>
 							</thead>
 							<tbody>
+								<tr><td> Impacto </td><td class="convertlinks"> <xmp class="no-margin" style="white-space:pre-wrap">25</xmp> </td></tr>
 							</tbody>
 						</table>
 					</div>

diff --git a/index.html b/index.html
@@ -692,7 +692,8 @@
 													<li class="tree-element"><a href="id-c126e9492ded4e86a2e8033d4e5892b0/elements/id-34843064df6947c9b0289cee85725a53.html" target="element"> BRE5. La actividad de foliaci&#243;n no se encuentra realizada en su totalidad </a></li>
 													<li class="tree-element"><a href="id-c126e9492ded4e86a2e8033d4e5892b0/elements/id-5a67580cb32a47f394414ce8e73e59e2.html" target="element"> BRE6. Incompletitud en la informaci&#243;n de los r&#243;tulos de los expedientes </a></li>
 													<li class="tree-element"><a href="id-c126e9492ded4e86a2e8033d4e5892b0/elements/id-7f0e78c58477426986caf6c2c646c545.html" target="element"> BRE7. No se elaboran inventarios documentales para la totalidad de los expedientes </a></li>
-													<li class="tree-element"><a href="id-c126e9492ded4e86a2e8033d4e5892b0/elements/id-a8013bc1e9d34019bae3b43ab7aac2fd.html" target="element"> BRE8. Baja gesti&#243;n del cronograma de transferencias documental </a></li>
+													<li class="tree-element"><a href="id-c126e9492ded4e86a2e8033d4e5892b0/elements/id-a8013bc1e9d34019bae3b43ab7aac2fd.html" target="element"> BRE8. Bajo cumplimiento del cronograma de transferencias documental </a></li>
+													<li class="tree-element"><a href="id-c126e9492ded4e86a2e8033d4e5892b0/elements/id-67d4b942f64446e3ad359f7e82755a99.html" target="element"> BRE9. Control de correspondencia y comunicaciones interna y externa </a></li>
 
 									</ul>
 								</li>

diff --git a/id-c126e9492ded4e86a2e8033d4e5892b0/elements/id-34843064df6947c9b0289cee85725a53.html b/id-c126e9492ded4e86a2e8033d4e5892b0/elements/id-34843064df6947c9b0289cee85725a53.html
@@ -46,7 +46,9 @@
 				<!-- Tab panes -->
 				<div class="tab-content">
 					<div role="tabpanel" class="tab-pane active" id="documentation">
-						<div class="convertlinks documentation" style="white-space:pre-wrap">1190001- DIRECCI&#211;N DE CONTRATACI&#211;N Y COMPRAS
+						<div class="convertlinks documentation" style="white-space:pre-wrap">Persisten fallas en el inventario que refleja un 63% del proceso indicado en las unidades que fueron objeto de exploraci&#243;n muestral. Es objeto de alarma que la foliaci&#243;n refleje de manera general una gesti&#243;n efectiva del 43%, por lo que se concluye que la organizaci&#243;n de unidades documentales de la EAAB en estas dependencias analizadas no es completa y precisamente otro indicador desarrollado y obtenido por la consultor&#237;a nos puede mostrar c&#243;mo fue ese comportamiento en cada una de las dependencias.
+
+1190001- DIRECCI&#211;N DE CONTRATACI&#211;N Y COMPRAS
 1210001 - GERENCIA CORPORATIVA PLANEAMIENTO Y CONTROL
 1240001- DIRECCI&#211;N PLANEACI&#211;N  Y CONTROL RENTABILIDAD, GASTOS Y COSTOS
 1350001- DIRECCI&#211;N TESORER&#205;A
@@ -75,6 +77,7 @@
 								</tr>
 							</thead>
 							<tbody>
+								<tr><td> Impacto </td><td class="convertlinks"> <xmp class="no-margin" style="white-space:pre-wrap">10</xmp> </td></tr>
 							</tbody>
 						</table>
 					</div>

diff --git a/id-c126e9492ded4e86a2e8033d4e5892b0/elements/id-5a67580cb32a47f394414ce8e73e59e2.html b/id-c126e9492ded4e86a2e8033d4e5892b0/elements/id-5a67580cb32a47f394414ce8e73e59e2.html
@@ -46,7 +46,11 @@
 				<!-- Tab panes -->
 				<div class="tab-content">
 					<div role="tabpanel" class="tab-pane active" id="documentation">
-						<div class="convertlinks documentation" style="white-space:pre-wrap">1190001 - DIRECCI&#211;N DE CONTRATACI&#211;N Y COMPRAS
+						<div class="convertlinks documentation" style="white-space:pre-wrap">El proceso de organizaci&#243;n de documentos en unidades simples y complejas no se desarrolla de manera integral: los procesos que componen esta actividad no se llevan a cabalidad y siempre hace falta completitud de los mismos.
+
+El proceso m&#225;s frecuente es el de ordenaci&#243;n seguido por la rotulaci&#243;n, infortunadamente con deficiencias del menos del 50% en la descripci&#243;n de dicho r&#243;tulo. 
+
+1190001 - DIRECCI&#211;N DE CONTRATACI&#211;N Y COMPRAS
 1240001 - DIRECCI&#211;N PLANEACI&#211;N  Y CONTROL RENTABILIDAD, GASTOS Y COSTOS
 1421001 - DIRECCI&#211;N MEJORAMIENTO CALIDAD DE VIDA
 1510001 - GERENCIA JUR&#205;DICA
@@ -73,6 +77,7 @@
 								</tr>
 							</thead>
 							<tbody>
+								<tr><td> Impacto </td><td class="convertlinks"> <xmp class="no-margin" style="white-space:pre-wrap">25</xmp> </td></tr>
 							</tbody>
 						</table>
 					</div>

diff --git a/id-c126e9492ded4e86a2e8033d4e5892b0/objects/id-fe115875c68e405a8da294d0794abb1c.html b/id-c126e9492ded4e86a2e8033d4e5892b0/objects/id-fe115875c68e405a8da294d0794abb1c.html
@@ -47,9 +47,9 @@
 					<div role="tabpanel" class="tab-pane active" id="documentation">
 						<div class="convertlinks documentation" style="white-space:pre-wrap">Problemas Documentales y archiv&#237;sticos diagnosticados EAAB
 
-Brechas administrativas y  archiv&#237;sticas prioritarias.
+Brechas administrativas y  archiv&#237;sticas prioritarias. Puntaje.
 
-v0.2</div>
+v0.3</div>
 					</div>
 					<div role="tabpanel" class="tab-pane" id="properties">
 						<table class="table table-striped table-hover table-condensed">

diff --git a/id-c126e9492ded4e86a2e8033d4e5892b0/elements/id-56571d7c3ed441d9b22a4870c4a1f9ef.html b/id-c126e9492ded4e86a2e8033d4e5892b0/elements/id-56571d7c3ed441d9b22a4870c4a1f9ef.html
@@ -65,6 +65,7 @@
 								</tr>
 							</thead>
 							<tbody>
+								<tr><td> Impacto </td><td class="convertlinks"> <xmp class="no-margin" style="white-space:pre-wrap">100</xmp> </td></tr>
 							</tbody>
 						</table>
 					</div>

diff --git a/id-c126e9492ded4e86a2e8033d4e5892b0/elements/id-7f0e78c58477426986caf6c2c646c545.html b/id-c126e9492ded4e86a2e8033d4e5892b0/elements/id-7f0e78c58477426986caf6c2c646c545.html
@@ -59,6 +59,7 @@
 								</tr>
 							</thead>
 							<tbody>
+								<tr><td> Impacto </td><td class="convertlinks"> <xmp class="no-margin" style="white-space:pre-wrap">100</xmp> </td></tr>
 							</tbody>
 						</table>
 					</div>

diff --git a/id-c126e9492ded4e86a2e8033d4e5892b0/elements/id-ceff681b2d1048d38735c63b17ac1b32.html b/id-c126e9492ded4e86a2e8033d4e5892b0/elements/id-ceff681b2d1048d38735c63b17ac1b32.html
@@ -59,6 +59,7 @@
 								</tr>
 							</thead>
 							<tbody>
+								<tr><td> Impacto </td><td class="convertlinks"> <xmp class="no-margin" style="white-space:pre-wrap">100</xmp> </td></tr>
 							</tbody>
 						</table>
 					</div>

diff --git a/id-c126e9492ded4e86a2e8033d4e5892b0/elements/id-546681b0f1fe42da809704cb1fa47623.html b/id-c126e9492ded4e86a2e8033d4e5892b0/elements/id-546681b0f1fe42da809704cb1fa47623.html
@@ -65,6 +65,7 @@
 								</tr>
 							</thead>
 							<tbody>
+								<tr><td> Impacto </td><td class="convertlinks"> <xmp class="no-margin" style="white-space:pre-wrap">40</xmp> </td></tr>
 							</tbody>
 						</table>
 					</div>
